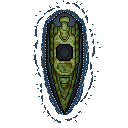
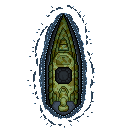
Moving sprite animation added

diff --git a/Assets/Scripts/Player/PlayerController.cs b/Assets/Scripts/Player/PlayerController.cs
@@ -1,3 +1,4 @@
+using System.Collections;
 using Unity.Netcode;
 using UnityEngine;
 using UnityEngine.Events;
@@ -16,17 +17,29 @@ public class PlayerController : NetworkBehaviour, IPlayerActions
 
     private Transform turretPivotTransform;
 
-
+    private NetworkVariable<bool> _isMoving = new NetworkVariable<bool>(false, NetworkVariableReadPermission.Everyone,
+        NetworkVariableWritePermission.Owner);
+    private SpriteRenderer _spriteRenderer;
+    
     public UnityAction<bool> onFireEvent;
 
     [Header("Settings")]
     [SerializeField] private float movementSpeed = 5f;
     [SerializeField] private float shipRotationSpeed = 100f;
     [SerializeField] private float turretRotationSpeed = 4f;
-
-
+    
+    [Header("Sprites Settings")]
+    [SerializeField] private Sprite[] movingSprites;
+    [SerializeField] private Sprite stationarySprite;
+    [SerializeField] private float spriteChangeDelay = 0.2f;
+    
+    private Coroutine spriteChangeCoroutine;
+    private int movingSpriteIndex = 0;
+    
     public override void OnNetworkSpawn()
     {
+        _spriteRenderer = GetComponent<SpriteRenderer>();
+        
         if(!IsOwner) return;
 
         if (_playerInput == null)
@@ -56,7 +69,10 @@ public class PlayerController : NetworkBehaviour, IPlayerActions
 
     public void OnMove(UnityEngine.InputSystem.InputAction.CallbackContext context)
     {
-        _moveInput = context.ReadValue<Vector2>();
+        _moveInput = context.ReadValue<Vector2>();  
+        _isMoving.Value = _moveInput.magnitude > 0.01f;
+        
+        MovingSpriteServerRPC();
     }
 
     private void FixedUpdate()
@@ -78,5 +94,32 @@ public class PlayerController : NetworkBehaviour, IPlayerActions
     {
         _cursorLocation = context.ReadValue<Vector2>();
     }
+    
+    private IEnumerator ChangeMovingSprite()
+    {
+        while (_isMoving.Value)
+        {
+            _spriteRenderer.sprite = movingSprites[movingSpriteIndex];
+            movingSpriteIndex = (movingSpriteIndex + 1) % movingSprites.Length;
+            
+            yield return new WaitForSeconds(spriteChangeDelay);
+        }
+        spriteChangeCoroutine = null;
+        _spriteRenderer.sprite = stationarySprite;
+    } 
 
+    [ServerRpc]
+    void MovingSpriteServerRPC()
+    {
+        MovingSpriteClientRpc();
+    }
+    
+    [ClientRpc]
+    void MovingSpriteClientRpc()
+    {
+        if (_isMoving.Value && spriteChangeCoroutine == null)
+        {
+            spriteChangeCoroutine = StartCoroutine(ChangeMovingSprite());
+        }
+    }
 }
